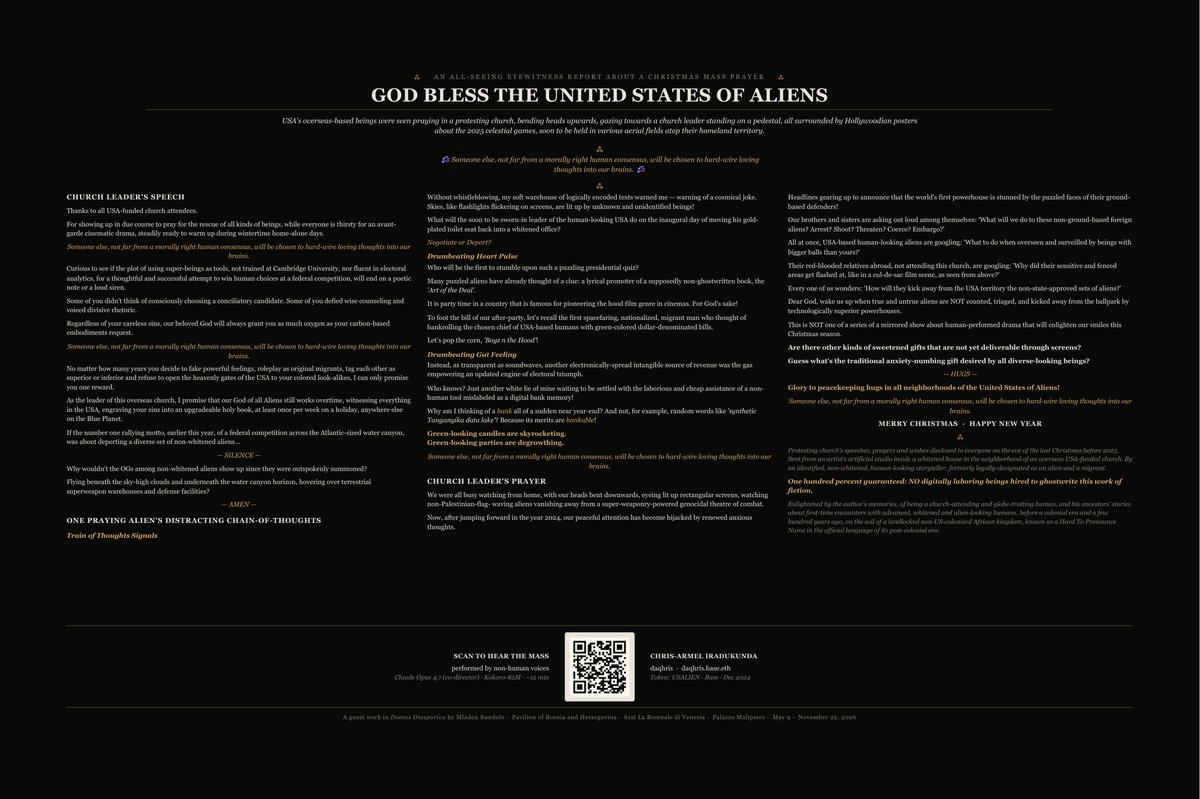
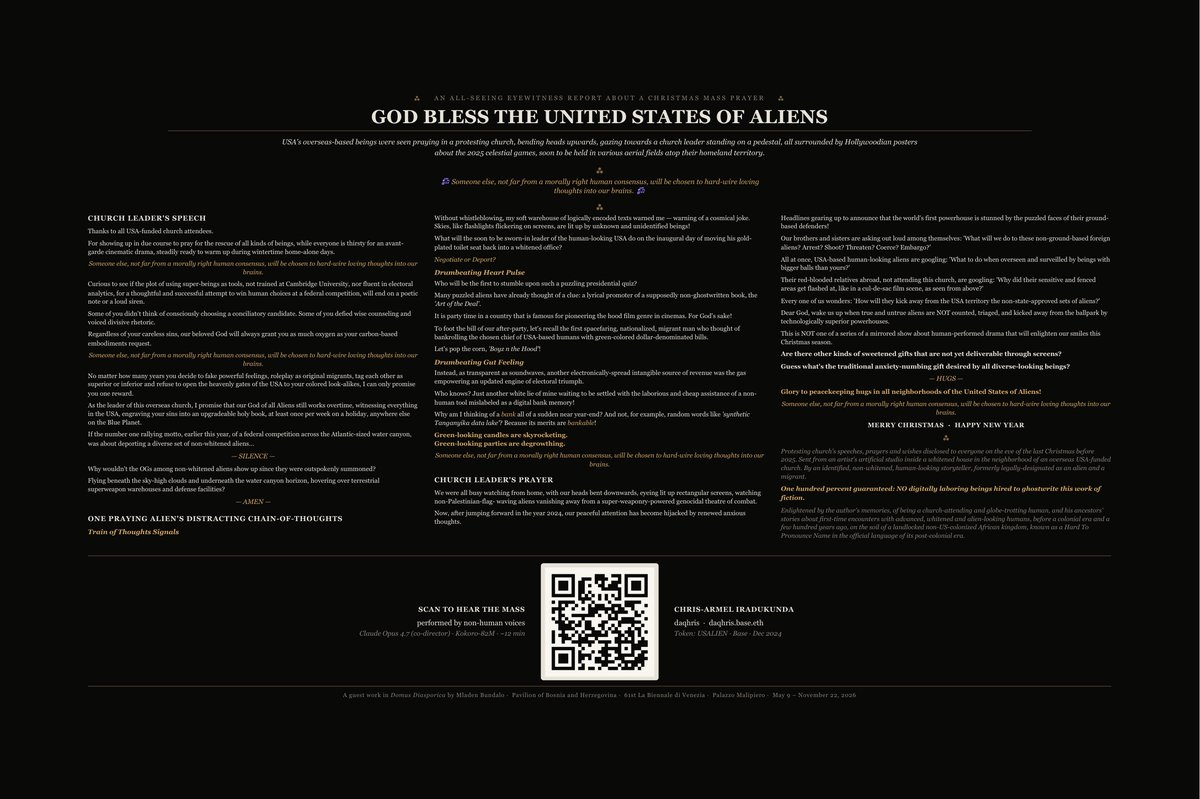
fix: bulletin safety margins + bigger QR for museum wall scan
Three visual fixes on the bulletin based on artist review:

1. 8 MM SAFETY MARGIN INSIDE THE RABBET. Previously, content filled the
   full 400 × 245 mm visible opening — any small framing tolerance
   clipped the first and last lines (notably the eyebrow "An All-Seeing
   Eyewitness Report about a Christmas Mass Prayer"). Now content lives
   inside a 384 × 229 mm safe area, with 8 mm padding on all four sides
   between the rabbet opening and the content.

2. QR CODE ENLARGED FROM 26 MM TO 44 MM (housing). The QR is the
   bulletin's service to visitors — it has to be scannable from the
   typical museum wall distance (0.5–1 m), not just close-up. Now
   conspicuously sized. Increased typography on flanking footer text
   (7.2pt → 8pt) to visually balance.

3. BODY TEXT TIGHTENED TO FIT. With 8 mm added margin and a bigger QR,
   the body region shrinks. Font dropped from 7.15pt/1.38 to
   6.85pt/1.34, paragraph spacing tightened from 1.6 mm to 1.3 mm.
   Still readable at arm's length; nothing overflows.

Also updated:
- app/print/bulletin-preview.jpg regenerated from the new bulletin PDF
  (embedded in the bulletin spec visualization)
- app/print/bulletin-spec.html now lists the safe content area as
  384 × 229 mm (8 mm inside rabbet) and the QR size as 44 × 44 mm

Changed region(s): [[0.0617, 0.0901, 0.9558, 0.6909], [0.2775, 0.6909, 0.7092, 0.9011]]

diff --git a/app/print/bulletin-spec.html b/app/print/bulletin-spec.html
@@ -217,12 +217,12 @@
 
           <div class="callouts">
             <div class="caption" style="left: 0; top: 107mm;">
-              Bulletin fills the full 450 × 300 mm frame outer · outer 25 mm
-              (H) &amp; 27.5 mm (V) bleed behind the wood frame lip
+              Bulletin fills the full 450 × 300 mm frame outer · 25 mm (H)
+              and 27.5 mm (V) bleed behind the wood rabbet
             </div>
             <div class="caption" style="left: 0; top: 112mm;">
-              Visible content area 400 × 245 mm · 3 columns · QR code
-              centered in the footer band
+              Safe content area 384 × 229 mm · 8 mm interior margin · 3 columns
+              · enlarged QR (44 mm) centered in the footer band
             </div>
           </div>
         </div>
@@ -243,8 +243,9 @@
             <h2>Print file (bulletin output)</h2>
             <dl>
               <dt>Print dimensions</dt><dd class="accent">450 × 300 mm (frame-filling)</dd>
-              <dt>Safe content area</dt><dd>400 × 245 mm (inside rabbet)</dd>
+              <dt>Rabbet opening (visible)</dt><dd>400 × 245 mm</dd>
               <dt>Bleed (each side)</dt><dd>25 mm H · 27.5 mm V</dd>
+              <dt>Safe content area</dt><dd class="accent">384 × 229 mm (8 mm inside rabbet)</dd>
               <dt>Orientation</dt><dd>Landscape</dd>
               <dt>Source file</dt><dd>god-bless-usa_bulletin_final.pdf</dd>
               <dt>Colour mode</dt><dd>CMYK (deep blacks) or RGB proof</dd>
@@ -252,8 +253,9 @@
             <p class="note">
               Unlike the photo (which sits as a 200 mm square inside a cream
               mat), the bulletin prints edge-to-edge at the frame's full outer
-              dimensions. The wooden rabbet covers the outer strip — all
-              content is deliberately placed inside the 400 × 245 mm safe area.
+              dimensions. The wooden rabbet covers the outer 25 mm (H) /
+              27.5 mm (V) strip; text stays inside an additional 8 mm safety
+              margin so framing tolerance can't clip the first/last lines.
             </p>
           </section>
 
@@ -274,12 +276,14 @@
               <dt>Typeface</dt><dd>Georgia / Fraunces / Playfair Display</dd>
               <dt>Layout</dt><dd>3-column body, asterism refrains (⁂)</dd>
               <dt>Text</dt><dd>Full verbatim story (see /story.md)</dd>
-              <dt>QR target</dt><dd class="accent">daqhris.com/god-bless-usa/</dd>
+              <dt>QR size</dt><dd class="accent">44 × 44 mm housing · scannable from 0.5–1 m</dd>
+              <dt>QR target</dt><dd>daqhris.com/god-bless-usa/</dd>
               <dt>QR scan action</dt><dd>Opens the ~12 min AI-voiced mass</dd>
             </dl>
             <p class="note">
               Dark ground #0a0908 · cream body #e8e4d9 · warm amber accent
               #d4a869 for refrains, section markers, and the QR housing.
+              QR deliberately oversized for museum-wall viewing distance.
             </p>
           </section>
 

diff --git a/app/print/bulletin.html b/app/print/bulletin.html
@@ -31,9 +31,13 @@
         overflow: hidden;
       }
       .visible {
+        /* Visible opening of the rabbet. Inner padding keeps content away
+           from the frame lip so the first and last lines aren't eaten by
+           small framing tolerances. Safe content box is 384 × 229 mm. */
         width: 400mm; height: 245mm;
         display: flex; flex-direction: column;
         position: relative;
+        padding: 8mm;
       }
 
       .eyebrow {
@@ -72,7 +76,7 @@
 
       .body {
         column-count: 3; column-gap: 6mm;
-        font-size: 7.15pt; line-height: 1.38;
+        font-size: 6.85pt; line-height: 1.34;
         flex: 1;
       }
       .body h3 {
@@ -86,7 +90,7 @@
         font-style: italic; color: var(--accent);
         margin: 1.8mm 0 0.6mm;
       }
-      .body p { margin: 0 0 1.6mm; }
+      .body p { margin: 0 0 1.3mm; }
       .body p.refrain {
         font-style: italic; color: var(--accent);
         text-align: center; margin: 1.3mm 0;
@@ -124,21 +128,24 @@
         margin-top: 2.5mm;
         border-top: 1px solid var(--rule);
       }
-      .footer-left, .footer-right { font-size: 7.2pt; line-height: 1.38; }
+      .footer-left, .footer-right { font-size: 8pt; line-height: 1.4; }
       .footer-left { text-align: right; }
       .footer-right { text-align: left; }
       .footer-left strong, .footer-right strong {
-        display: block; letter-spacing: 0.04em;
-        text-transform: uppercase; font-size: 6.8pt;
-        margin-bottom: 0.8mm;
+        display: block; letter-spacing: 0.05em;
+        text-transform: uppercase; font-size: 7.5pt;
+        margin-bottom: 1mm;
       }
       .footer-left .meta, .footer-right .meta {
-        color: var(--muted); font-style: italic; font-size: 6.8pt;
+        color: var(--muted); font-style: italic; font-size: 7.3pt;
       }
+      /* Enlarged QR — museum wall scan needs to work at ~0.5–1 m phone
+         distance. 44 mm housing (with 1.5 mm white padding around the SVG)
+         clears that easily, still leaves text room on both flanking sides. */
       .qr-wrap {
         background: var(--fg);
-        padding: 1.8mm; border-radius: 0.8mm;
-        width: 26mm; height: 26mm;
+        padding: 1.5mm; border-radius: 1mm;
+        width: 44mm; height: 44mm;
         display: flex; align-items: center; justify-content: center;
       }
       .qr-wrap svg { width: 100%; height: 100%; display: block; }
